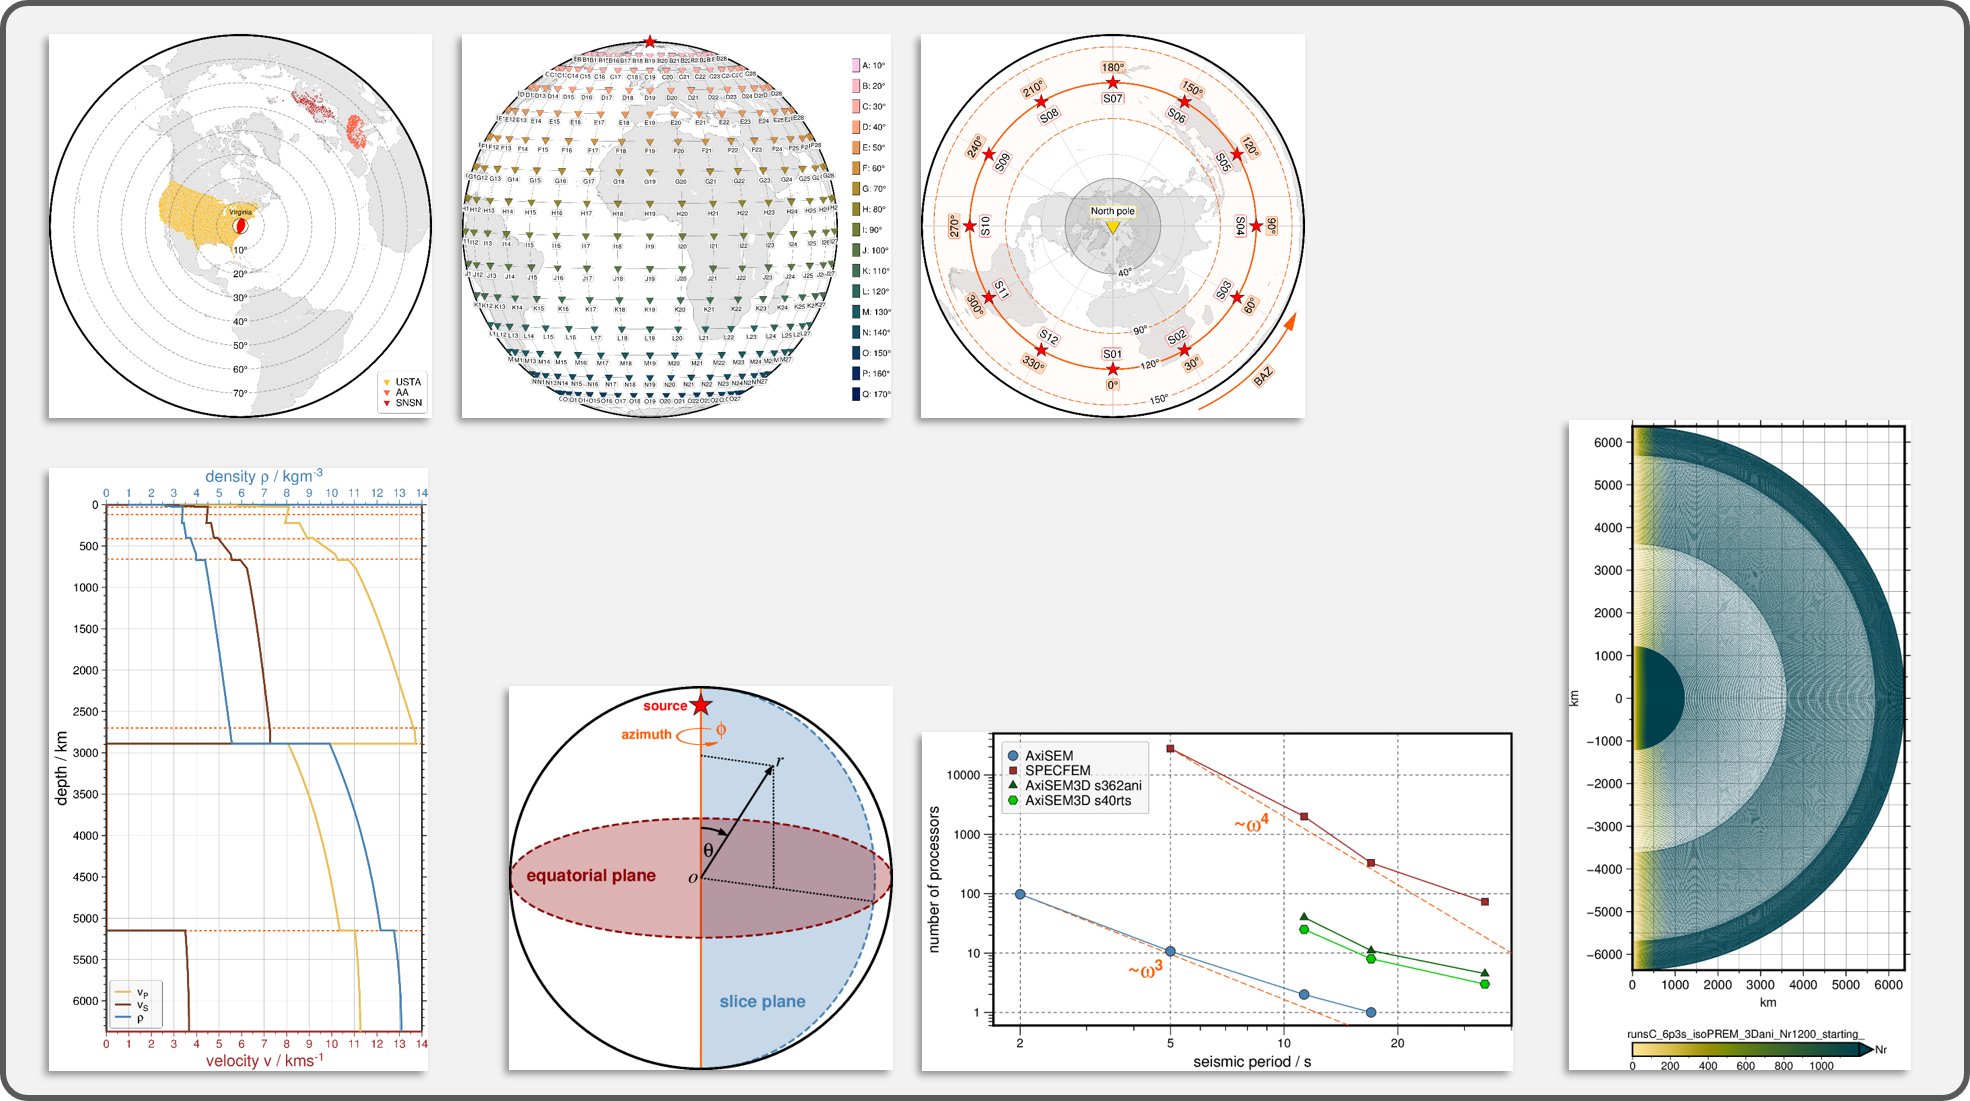
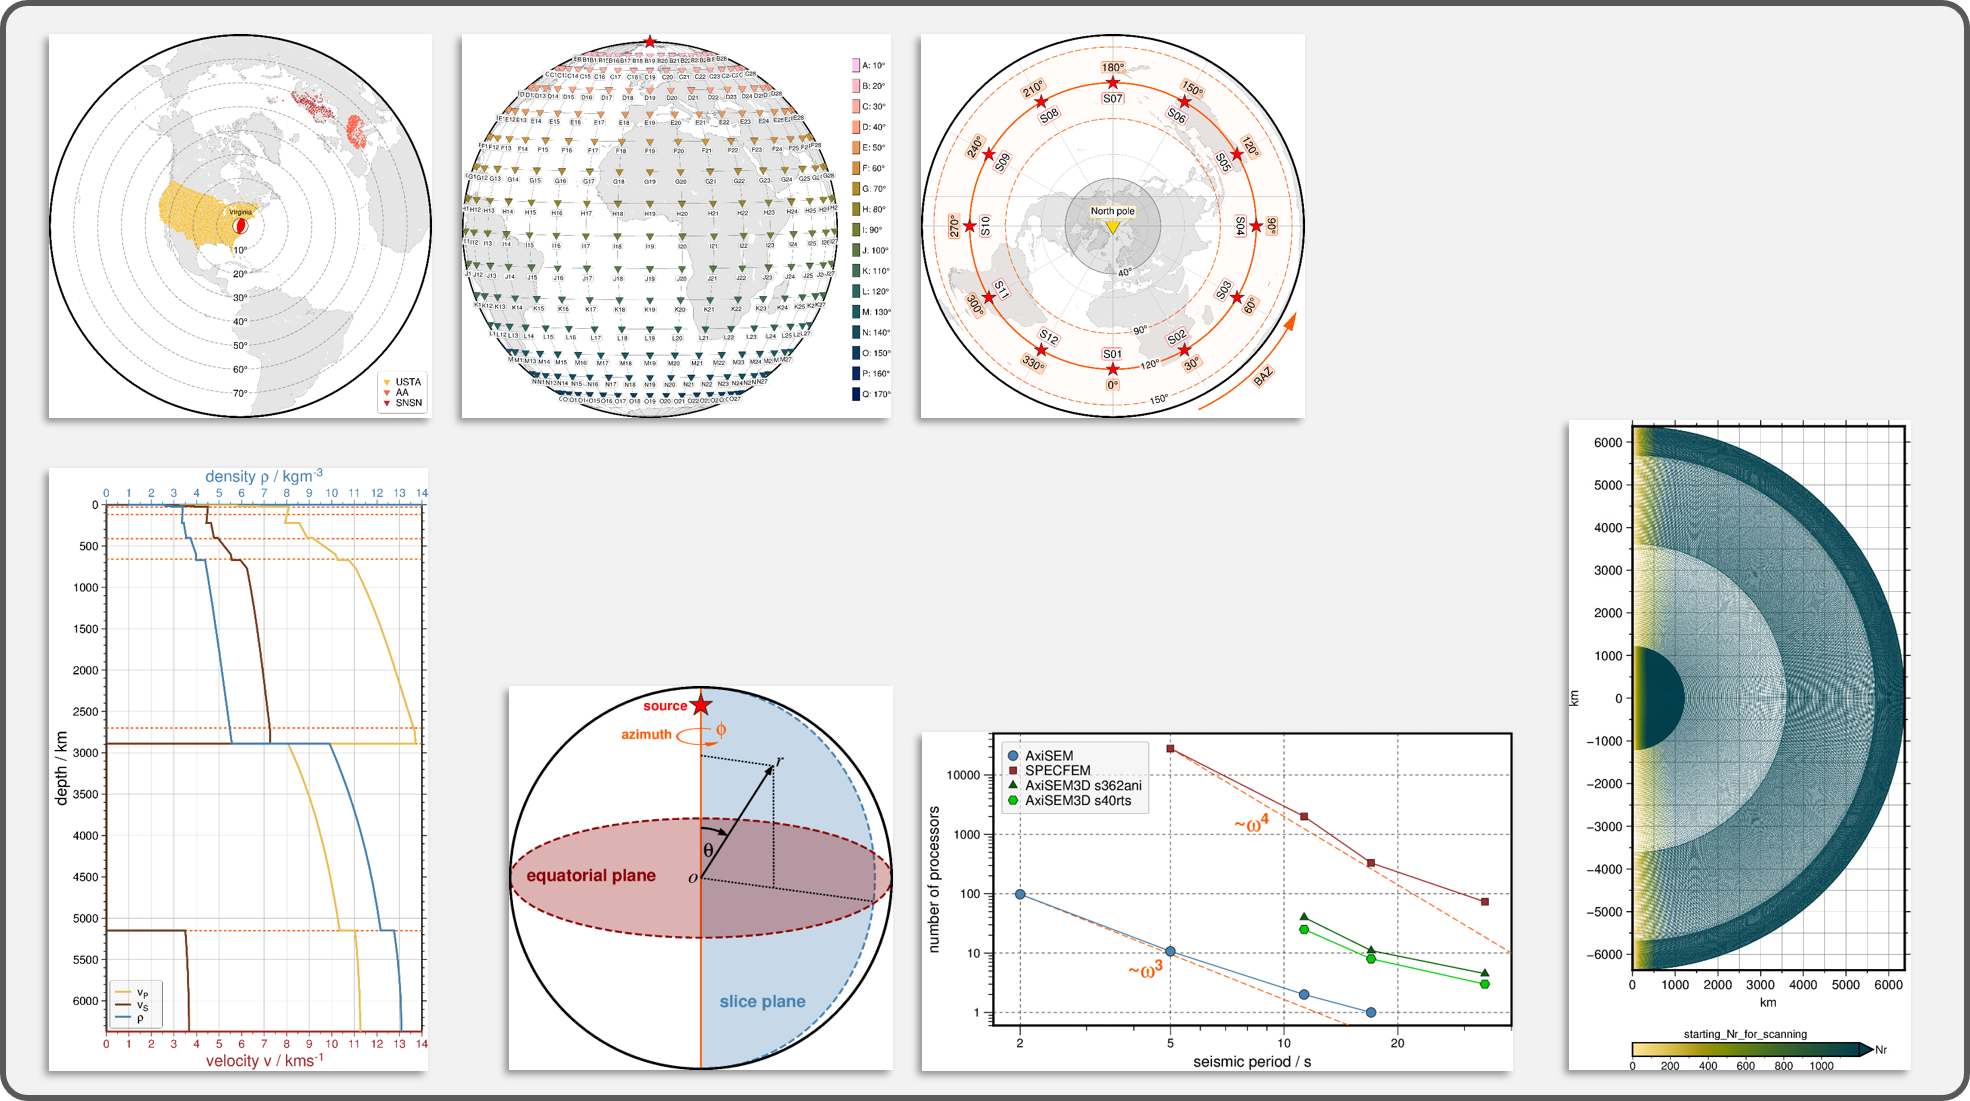
Update codes

Changed region(s): [[0.8051, 0.4015, 0.9599, 0.8647], [0.836, 0.9264, 0.9599, 0.9573]]

diff --git a/010_axisem/06_nr_field/nr_field.py b/010_axisem/06_nr_field/nr_field.py
@@ -49,8 +49,8 @@ histo_region_max = 300000
 histo_bin_width = 50
 histo_frame_xa = 100
 
-file_wfs = "scanning_output_isoPREM_3Dani_6p3s_Nr1200_2000s_100km.nc"
-file_out_basic = "runsC_6p3s_isoPREM_3Dani_Nr1200"
+file_basic = "isoPREM_3Dani_6p3s_Nr1200_2000s_100km"
+file_wfs = f"scanning_output_{file_basic}.nc"
 
 
 # %%
@@ -112,12 +112,12 @@ for nr_type in ["input", "output"]:  ## "input", "output"
 
     with gmt.config(FONT="12p"):
         fig.colorbar(
-            frame=[f"x{nr_cb_afg}+l{file_out_basic}_{nr_str[0:9]}","y+lNr"],
+            frame=[f"x{nr_cb_afg}+l{nr_str}","y+lNr"],
             position="JBC+h+w5c/0.3c+o-0.5c/1.6c+ef0.3c+ml",
         )
 
     fig.show()
-    fig_name = f"{file_out_basic}_{nr_type}_section"
+    fig_name = f"{file_basic}_{nr_type}_SECTION"
     # for ext in ["png"]:  # "eps", "pdf"]:
     #     fig.savefig(fname=f"{path_out}/{fig_name}.{ext}")
     print(fig_name)
@@ -142,7 +142,7 @@ for nr_type in ["input", "output"]:  ## "input", "output"
     )
 
     for i_y, Nr_text in enumerate([
-        f"{file_out_basic}",
+        f"{file_basic}",
         f"{nr_str}",
         f"  - Nr_min = {Nr_min}",
         f"  - Nr_max = {Nr_max}",
@@ -172,7 +172,7 @@ for nr_type in ["input", "output"]:  ## "input", "output"
         )
 
     fig.show()
-    fig_name = f"{file_out_basic}_{nr_type}_histogram"
+    fig_name = f"{file_basic}_{nr_type}_HISTOGRAM"
     # for ext in ["png"]:  # "eps", "pdf"]:
     #     fig.savefig(fname=f"{path_out}/{fig_name}.{ext}")
     print(fig_name)
